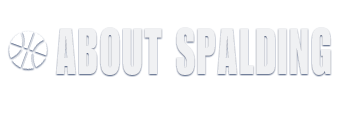
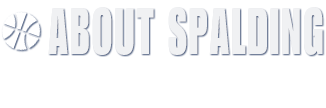
add

Changed region(s): [[0.5215, 0.0833, 1.0, 0.5556], [0.0, 0.0833, 0.4908, 0.5556], [0.3067, 0.0833, 0.3374, 0.1111]]

diff --git a/skin/frontend/default/spalding/css/spalding.css b/skin/frontend/default/spalding/css/spalding.css
@@ -2424,7 +2424,8 @@ ul.form-list li p{
 .newsWrapTit{
 	width:100%;
 	text-align: center;
-	margin-bottom:10px;
+	margin-bottom:26px;
+	margin-top:81px;
 }
 
 .newsList{
@@ -2636,7 +2637,8 @@ ul.newsListBox_cen{
 	position: relative;
 	width:100%;
 	text-align: center;
-	margin-bottom:40px;
+	margin-bottom:50px;
+	margin-top:81px;
 }
 
 .teyWrapClo{
@@ -2676,6 +2678,7 @@ ul.teyCloLis li span.teyCloTex h2{
 	font-weight: bold;
 	color:#ffb900;
 	margin-bottom:-40px;
+	margin-top:40px;
 }
 
 
@@ -2762,14 +2765,15 @@ ul.teyCloLis li.teyColLisBox_7 span.teyCloImg{
 .aboutTit{
 	width:100%;
 	text-align: center;
-	margin-bottom:10px;
+	margin-bottom:45px;
+	margin-top:80px;
 }
 
 
 
 .aboutNav{
 	text-align: center;
-	margin-bottom:50px;
+	margin-bottom:80px;
 }
 
 
@@ -2783,6 +2787,11 @@ ul.teyCloLis li.teyColLisBox_7 span.teyCloImg{
 	color:#fff;
 	background: rgba(0,0,0,.65);
 	margin:0 5px;
+}
+
+.aboutNav a img{
+	vertical-align: middle;
+	margin-top:13px;
 }
 
 .aboutNav a:hover{
@@ -2806,8 +2815,17 @@ ul.teyCloLis li.teyColLisBox_7 span.teyCloImg{
 }
 .aboutUs_boxLeft{
 	width:50%;
+	height:530px;
+	overflow: hidden;
 }
 
+.aboutUs_boxLeft.about_ori{
+	background: url(../images/about_originator.jpg) center top no-repeat;
+}
+
+.aboutUs_boxLeft.about_par{
+	background: url(../images/about_partner.jpg) center top no-repeat;
+}
 
 .aboutUs_boxLeft img{
 	width:100%;
@@ -2822,15 +2840,67 @@ ul.teyCloLis li.teyColLisBox_7 span.teyCloImg{
 
 .aboutUs_boxRig .aboutUs_boxRig_tit{
 	margin-left:5%;
-	margin-top:30px;
-	margin-bottom:20px;
+	margin-top:70px;
+	margin-bottom:50px;
 }
 
 
 .aboutUs_boxRig p{
-	margin:10px 5%;
+	margin:10px 15% 10px 5%;
 	color:#666;
 }
+
+/*当屏幕宽度1200 至 1400时 s*/
+@media screen and (min-width: 1200px) and (max-width: 1400px) {  
+    .aboutUsScroll{
+		margin:30px 5%;
+	}
+
+	#News{
+		height:110px;
+		overflow:hidden;
+	}
+
+	 a.top{
+	 	display: block;
+	 	float: left;
+	 	width:51px; 
+	 	height:39px;
+	 	background:url(../images/text-row.jpg) top left no-repeat;
+	 	margin-right:10px;
+	 	opacity: .8;
+	 }
+	        
+	a.bottom{
+	 	display: block;
+	 	float: left;
+		width:51px; 
+		height:39px;
+		background:url(../images/text-row.jpg) top right no-repeat;
+		margin-right:10px;
+	 	opacity: .8;
+	}
+
+	a.top:hover , a.bottom:hover{
+		opacity: 1;
+	}
+} 
+/*当屏幕宽度1000 至 1400时 e*/
+
+/*当屏幕宽度大于1400时 s*/
+@media screen and (min-width: 1400px) and (max-width: 2400px) {  
+    .aboutUsScroll{
+		margin:30px 5%;
+		display:none;
+	}
+
+	#News{
+		height:auto;
+	}
+} 
+/*当屏幕宽度大于1400时 e*/
+
+
 
 .aboutUs_boxRig h2{
 	margin:20px 5% 10px ;
@@ -2840,13 +2910,13 @@ ul.teyCloLis li.teyColLisBox_7 span.teyCloImg{
 }
 
 .aboutUs_boxRig_cont{
-	padding-bottom:20px;
+	height:530px;
 }
 
 
 
 .aboutUs_boxRig_img{
-	margin:10px 5%;
+	margin:0px 5%;
 }
 .aboutUs_boxRig_img img{
 	width: 100%;

diff --git a/skin/frontend/default/spalding/css/history.css b/skin/frontend/default/spalding/css/history.css
@@ -69,14 +69,14 @@ li {
 	font-family: Arial;
 	width: 580px;
 	position: absolute;
-	top: 120px;
+	top: 155px;
 	left: 50%;
 	margin-left: -290px;
 }
 .his-bg .div-tit{
 	position: relative;
 	z-index: 3;
-	margin-top:-50px;
+	margin-top:-20px;
 }
 .his-bg .div-tit .en{
 	height: 100px;
